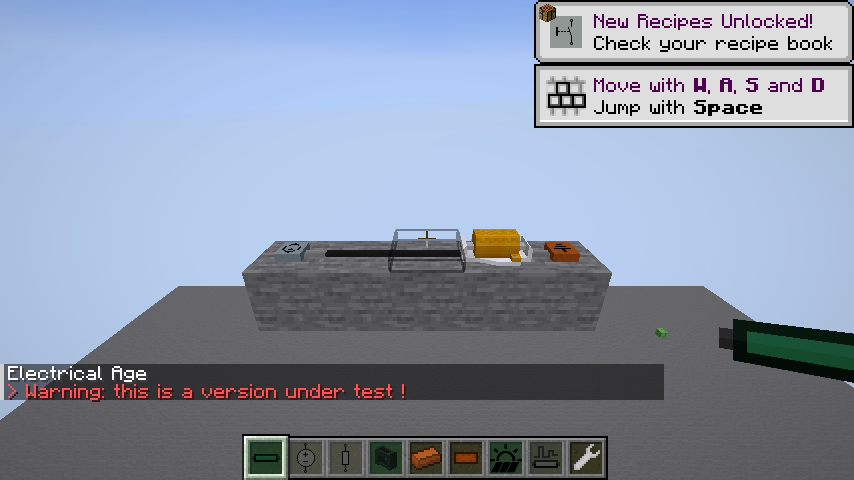
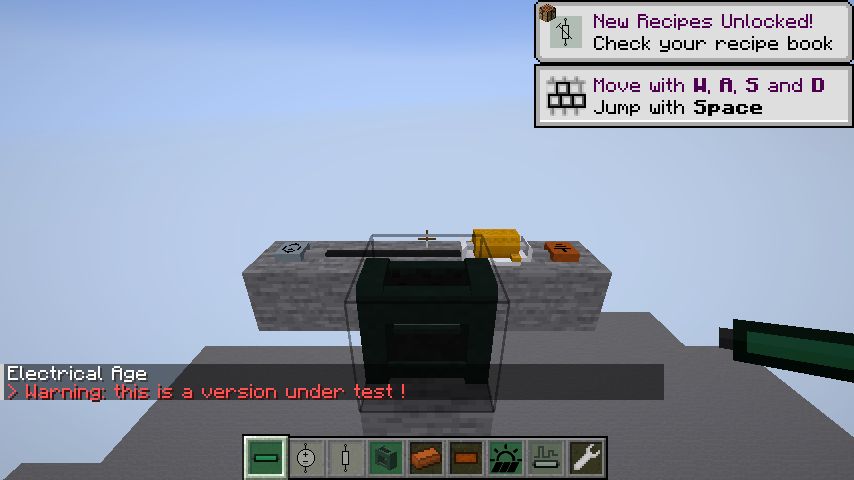
client: a transparent node (48V macerator) in the smoke world; its container GUI opens and draws
Claude-Session: https://claude.ai/code/session_01Lb5izv3ykLxYcSCdMc8SmK

diff --git a/src/main/java/mods/eln/devtest/ClientSmokeTest.java b/src/main/java/mods/eln/devtest/ClientSmokeTest.java
@@ -32,7 +32,7 @@ public final class ClientSmokeTest {
     private static final String PREFIX = "SMOKE";
     private static final int X = 512, Z = 512, GROUND = 64;
 
-    private enum Phase { OPEN, JOIN, SETUP, WORLD_SHOT, GUI, GUI_SHOT, INVENTORY, INVENTORY_SHOT, CREATIVE_TAB, CREATIVE_SHOT, DONE }
+    private enum Phase { OPEN, JOIN, SETUP, WORLD_SHOT, GUI, GUI_SHOT, MACHINE_GUI, MACHINE_GUI_SHOT, INVENTORY, INVENTORY_SHOT, CREATIVE_TAB, CREATIVE_SHOT, DONE }
 
     private final String save;
     private Phase phase = Phase.OPEN;
@@ -116,6 +116,24 @@ public final class ClientSmokeTest {
                 if (wait++ < 40) return;
                 Eln.LOGGER.info("{} {} screen open: {}", PREFIX, mc.screen == null ? "FAIL no" : "PASS", mc.screen == null ? null : mc.screen.getClass().getName());
                 shot(mc, "smoke-gui");
+                if (mc.screen != null) mc.screen.onClose();
+                phase = Phase.MACHINE_GUI;
+                wait = 0;
+            }
+            case MACHINE_GUI -> {
+                if (wait++ < 10) return;
+                // right-click the macerator (a transparent node with a container GUI)
+                BlockPos pos = new BlockPos(X + 2, GROUND + 1, Z + 2);
+                BlockHitResult hit = new BlockHitResult(new Vec3(pos.getX() + 0.5, pos.getY() + 0.5, pos.getZ() + 1.0), Direction.SOUTH, pos, false);
+                var result = mc.gameMode.useItemOn(mc.player, InteractionHand.MAIN_HAND, hit);
+                Eln.LOGGER.info("{} right-click on the macerator -> {}", PREFIX, result);
+                phase = Phase.MACHINE_GUI_SHOT;
+                wait = 0;
+            }
+            case MACHINE_GUI_SHOT -> {
+                if (wait++ < 40) return;
+                Eln.LOGGER.info("{} {} machine screen open: {}", PREFIX, mc.screen == null ? "FAIL no" : "PASS", mc.screen == null ? null : mc.screen.getClass().getName());
+                shot(mc, "smoke-machine-gui");
                 if (mc.screen != null) mc.screen.onClose();
                 phase = Phase.INVENTORY;
                 wait = 0;

diff --git a/src/main/java/mods/eln/devtest/SmokeTest.java b/src/main/java/mods/eln/devtest/SmokeTest.java
@@ -102,6 +102,10 @@ public final class SmokeTest {
         // nothing flows and the resistor reads 0 V across a floating terminal.
         placeSixNode(world, player, "Ground Cable", X + 4, Z);
 
+        // A transparent node (a machine with a container GUI) two blocks south, on its own stone.
+        world.setBlock(new BlockPos(X + 2, GROUND, Z + 2), Blocks.STONE.defaultBlockState(), 3);
+        placeTransparentNode(world, player, "48V Macerator", X + 2, Z + 2);
+
         // The creative source defaults to 0 V; readConfigTool is the public setter.
         SixNodeElement source = element(world, X, Z);
         if (source == null) {
@@ -160,6 +164,21 @@ public final class SmokeTest {
         BlockState placed = world.getBlockState(new BlockPos(x, GROUND + 1, z));
         Eln.logger.info("{} place '{}' at ({},{},{}) -> {} block={}",
             PREFIX, descriptorName, x, GROUND + 1, z, result, BuiltInRegistries.BLOCK.getKey(placed.getBlock()));
+    }
+
+    /** A transparent node stands on the block; the item's placement path creates node and block. */
+    private void placeTransparentNode(ServerLevel world, FakePlayer player, String descriptorName, int x, int z) {
+        player.setYRot(0f);
+        player.setYHeadRot(0f);
+        ItemStack stack = Eln.findItemStack(descriptorName, 1);
+        if (stack == null || stack.isEmpty()) {
+            Eln.logger.error("{} FAIL no item stack named '{}'", PREFIX, descriptorName);
+            return;
+        }
+        player.setItemInHand(InteractionHand.MAIN_HAND, stack.copy());
+        boolean placed = Eln.transparentNodeItem.placeBlockAt(stack, player, world, new BlockPos(x, GROUND + 1, z), net.minecraft.core.Direction.UP);
+        BlockState state = world.getBlockState(new BlockPos(x, GROUND + 1, z));
+        Eln.logger.info("{} place '{}' at ({},{},{}) -> {} block={}", PREFIX, descriptorName, x, GROUND + 1, z, placed, BuiltInRegistries.BLOCK.getKey(state.getBlock()));
     }
 
     private void orient(ServerLevel world, int x, int z, mods.eln.misc.LRDU front) {
